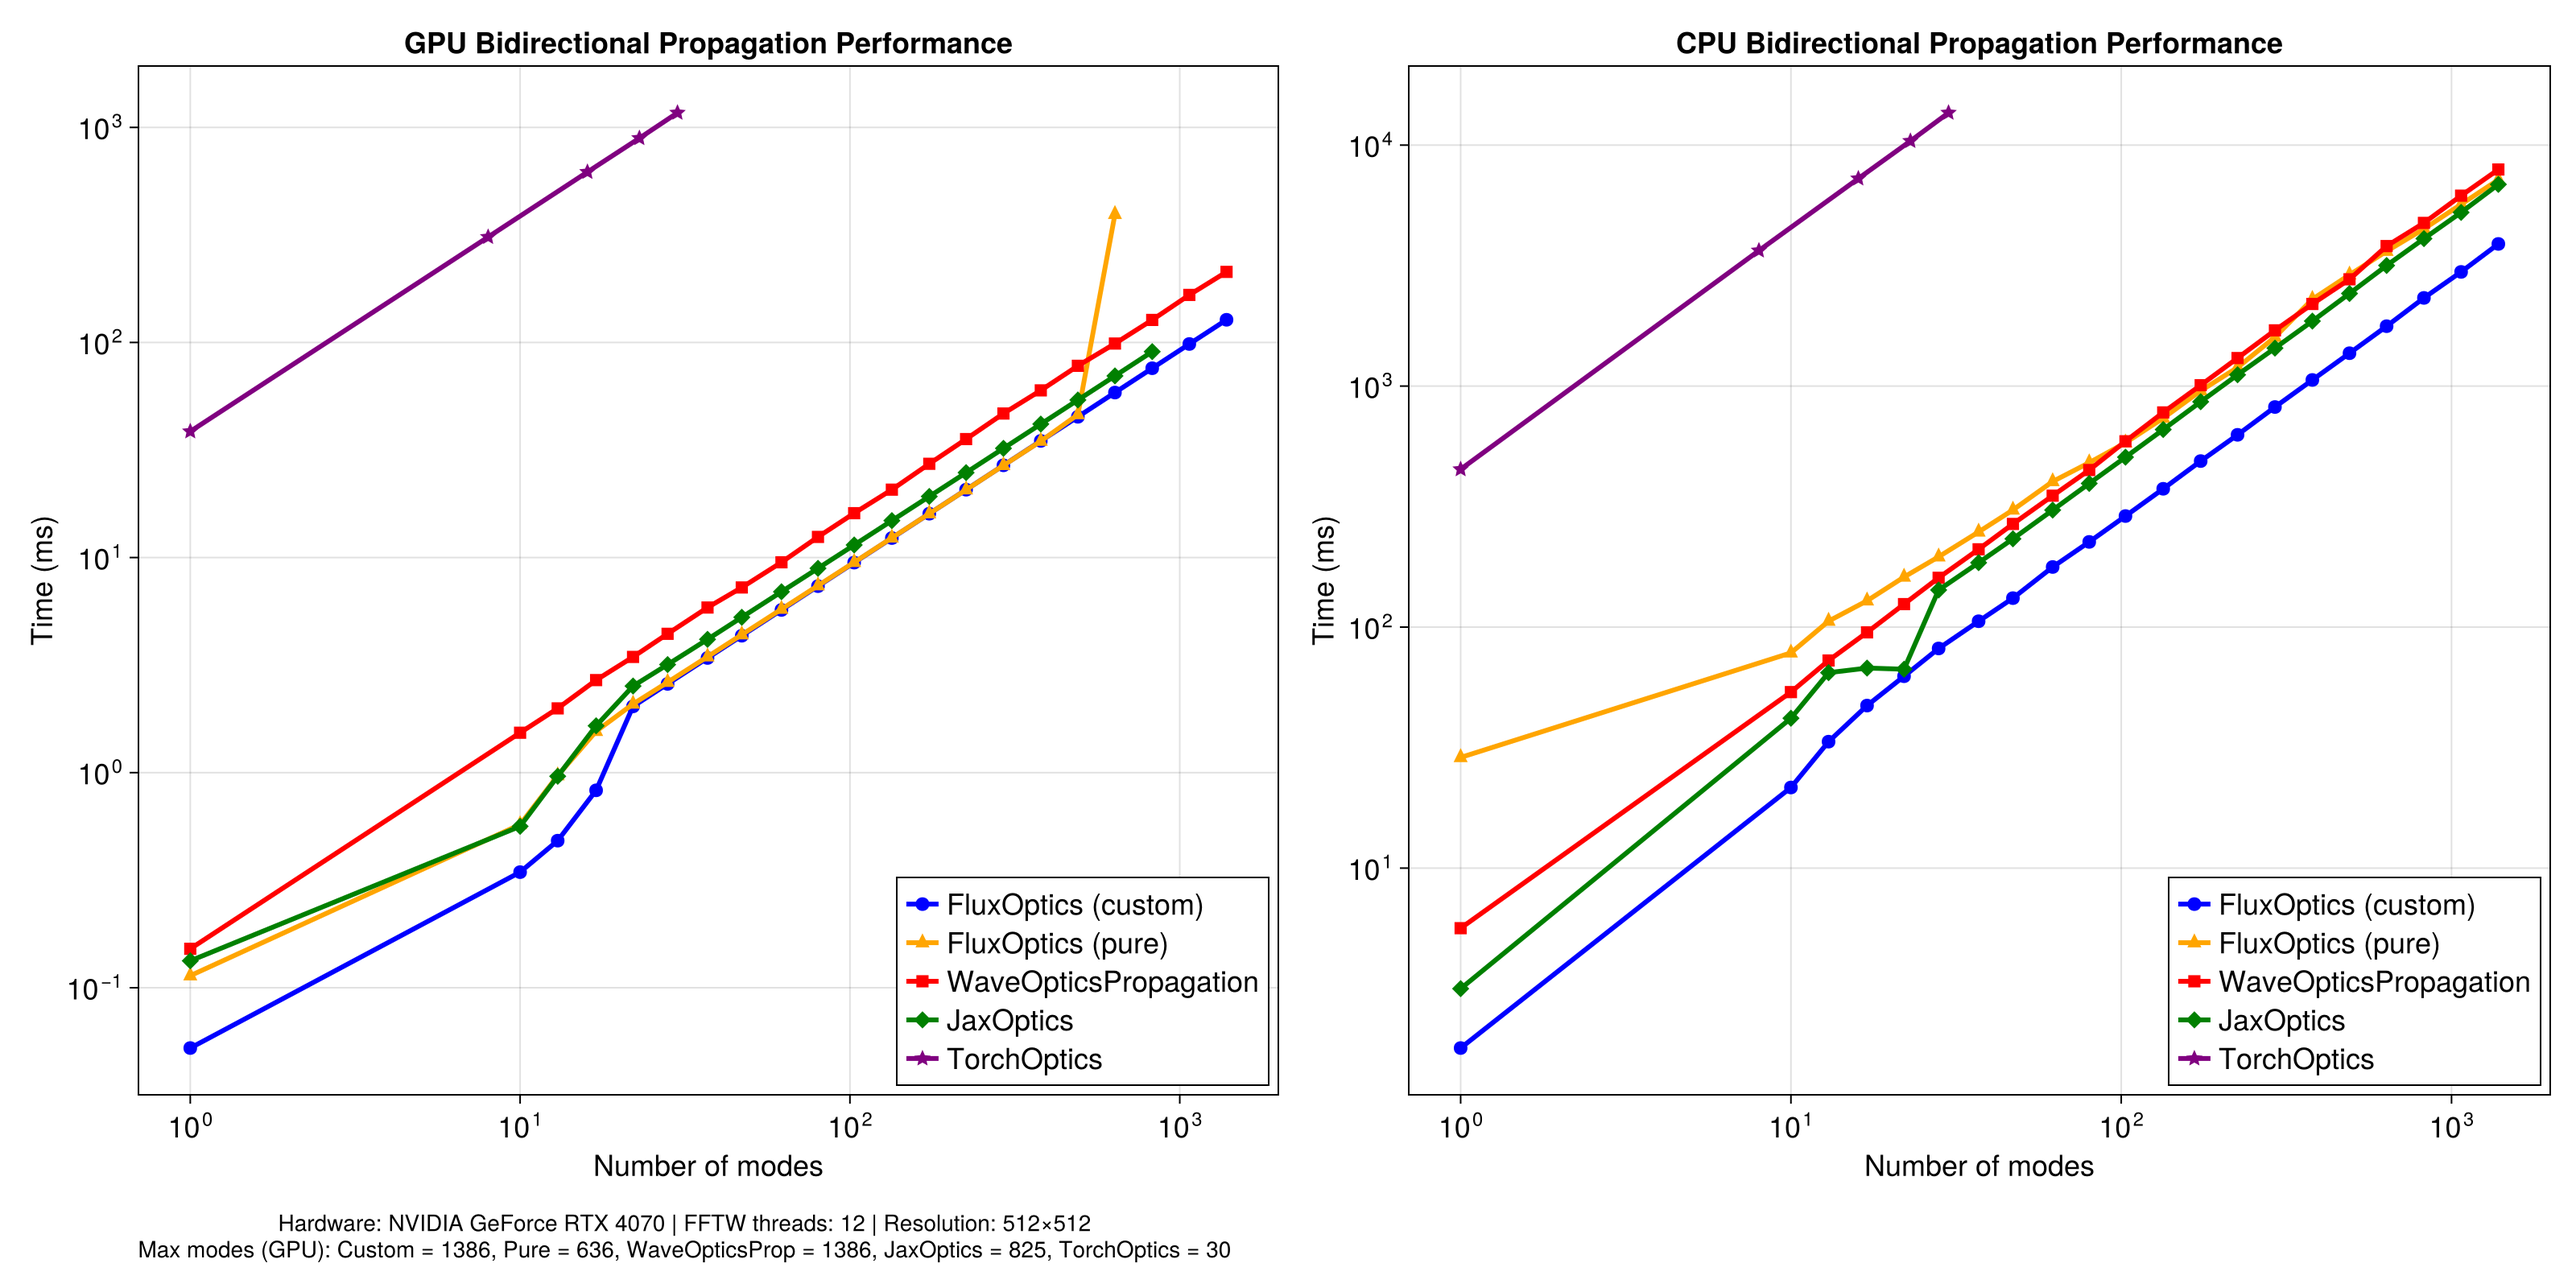
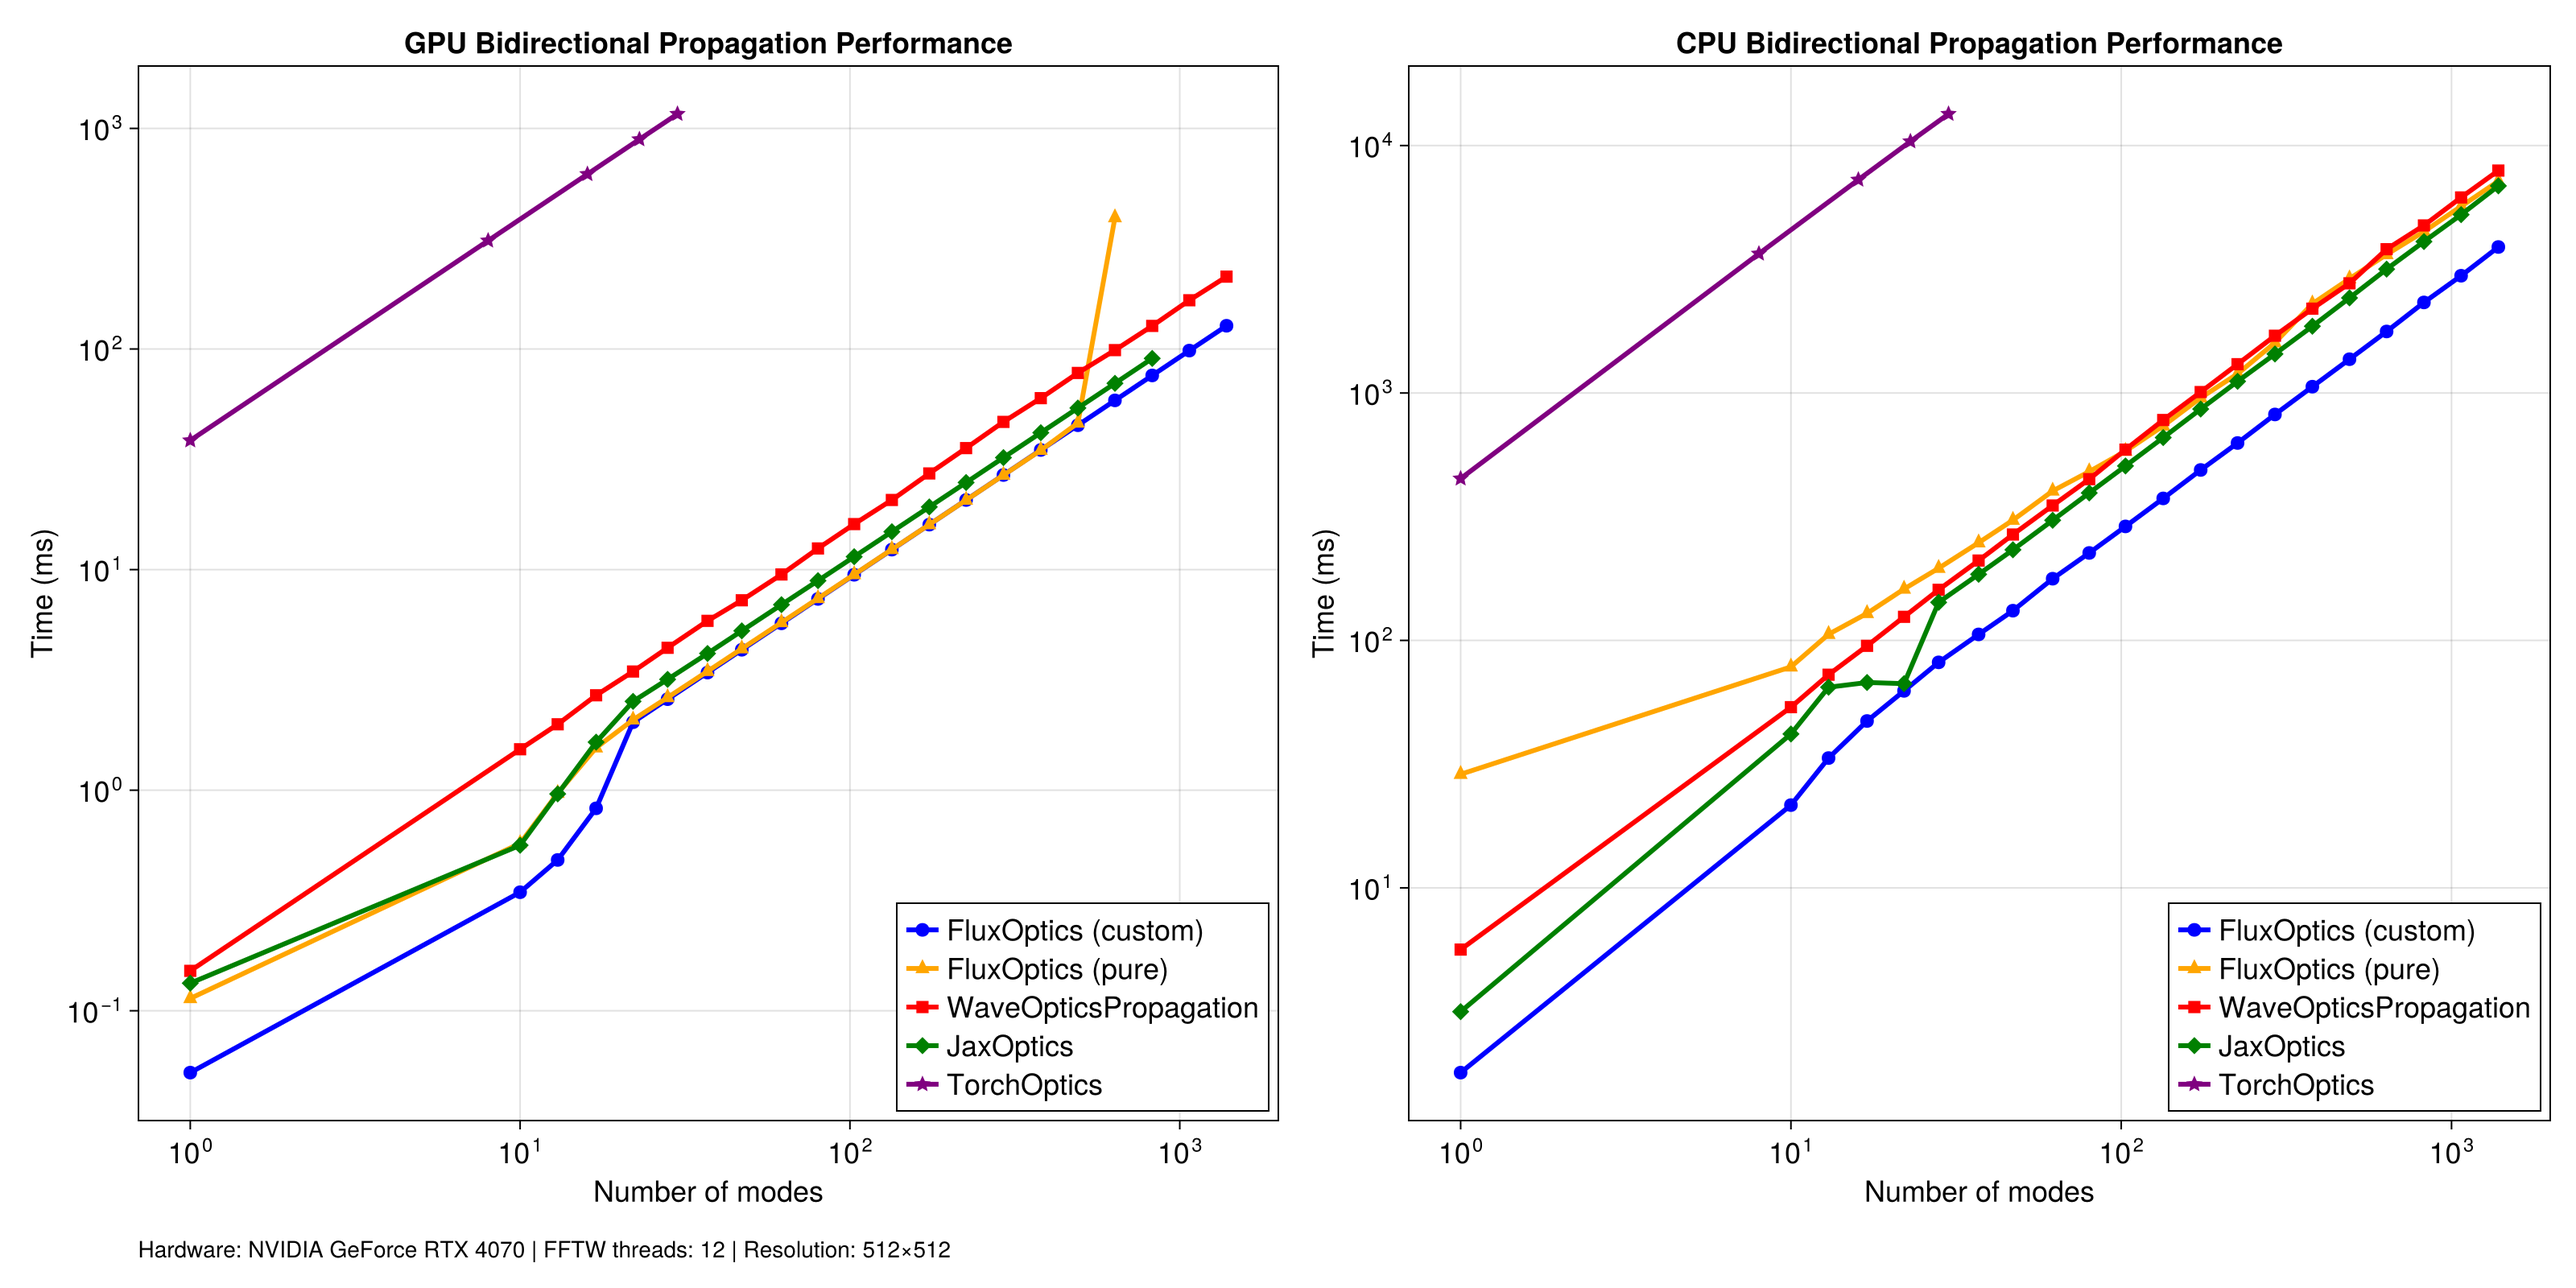
Comment benchmarks

diff --git a/benchmarks/angular_spectrum/scripts/bench_torchoptics.py b/benchmarks/angular_spectrum/scripts/bench_torchoptics.py
@@ -60,17 +60,15 @@ def check_correctness(uin, uout, z):
         return (check_overlap(uf, uout), check_overlap(ub, uin))
     return correct
 
-# device = "cpu"
+# Create Fields for each mode
+uin = [field(input_modes, i, "cpu") for i in range(n_modes_orig)]
+uout = [field(output_modes, i, "cpu") for i in range(n_modes_orig)]
 
-# # Create Fields for each mode
-# uin = [field(input_modes, i, device) for i in range(n_modes_orig)]
-# uout = [field(output_modes, i, device) for i in range(n_modes_orig)]
-
-# # Check correctness
-# fwd_correct, bwd_correct = check_correctness(uin, uout, z)()
-# assert fwd_correct, "Forward propagation correctness check failed"
-# assert bwd_correct, "Backward propagation correctness check failed"
-# print("✅ TorchOptics AS correct!")
+# Check correctness
+fwd_correct, bwd_correct = check_correctness(uin, uout, z)()
+assert fwd_correct, "Forward propagation correctness check failed"
+assert bwd_correct, "Backward propagation correctness check failed"
+print("✅ TorchOptics AS correct!")
 
 
 def benchmark_torch(input_modes, n_modes, dx, dy, wavelength, z, device='cuda'):

diff --git a/benchmarks/README.md b/benchmarks/README.md
@@ -1,0 +1,70 @@
+# FluxOptics Benchmarks
+
+This directory contains performance benchmarks comparing FluxOptics against other optical propagation libraries.
+
+## Angular Spectrum Propagation
+
+### Implementations Compared
+
+**Julia:**
+- **FluxOptics (custom)**: FluxOptics using optimized FFT/BFFT plans with in-place operations
+- **FluxOptics (pure)**: FluxOptics using pure FFT/BFFT function calls
+- **WaveOpticsPropagation.jl**: Alternative Julia library for wave optics
+
+**Python:**
+- **[JaxOptics](https://github.com/anscoil/jaxoptics)**: Minimal JAX implementation developed for this comparison, representing best-practice Python/JAX performance
+- **[TorchOptics](https://github.com/MatthewFilipovich/torchoptics)**: PyTorch-based optical system design library
+
+### Benchmark Setup
+
+All benchmarks measure bidirectional angular spectrum propagation (forward +z and backward -z) performance across different numbers of optical modes, on both GPU and CPU.
+
+**Configuration:**
+- Resolution: 512×512 pixels
+- Wavelength: 1.064 μm
+- Propagation distance: 2 mm
+- Measurements: 20 iterations (5 for TorchOptics due to slow performance)
+
+**Test modes:**
+The benchmark uses Laguerre-Gaussian (LG) modes with beam waist w₀ = 25.0 μm. Mode generation creates 21 radial order groups (p=0 to p=10) with azimuthal orders l satisfying |l| + 2p ≤ 20, yielding 231 unique modes (21×22/2). These 231 modes are duplicated 6× to reach the maximum test case of 1386 modes.
+
+**Validation:**
+All implementations were validated against analytically propagated Laguerre-Gaussian modes. Numerical propagation results show correlation >0.9999 (error <1e-4) with analytical solutions, confirming correctness of all tested libraries before benchmarking.
+
+**Hardware:**
+- GPU: NVIDIA GeForce RTX 4070 Super
+- CPU: AMD Ryzen 5 5600X with FFTW (12 threads)
+
+### Results
+
+#### Performance Comparison
+
+![Performance Comparison](angular_spectrum/results/comparison_performance.png)
+
+Raw execution times show FluxOptics (custom) achieving the best performance on both GPU and CPU across all mode counts tested (up to 1386 modes). The optimized FFT plan implementation maintains consistent performance scaling throughout the entire range.
+
+**Key observations:**
+
+- **FluxOptics (pure)** performs nearly identically to custom on GPU for low to moderate mode counts, but experiences significant performance degradation beyond ~500 modes and runs out of memory around 700 modes
+
+- **WaveOpticsPropagation.jl** shows competitive performance but remains consistently 1.7× slower on GPU and 2.0× slower on CPU compared to FluxOptics (custom)
+
+- **JaxOptics** demonstrates the best Python performance, running 1.2× slower than FluxOptics (custom) on GPU and performing on par with FluxOptics (pure) on CPU. However, it runs out of memory around 850 modes on GPU
+
+- **TorchOptics** exhibits significantly degraded performance and memory efficiency, being **420× slower** on GPU and **154× slower** on CPU. Testing beyond 30 modes was not pursued due to excessive runtime.
+
+#### Speedup Analysis
+
+![Speedup Comparison](angular_spectrum/results/comparison_speedup.png)
+
+Relative performance versus FluxOptics (custom) baseline on logarithmic scale. The baseline (1.0×) represents FluxOptics (custom) performance, with values below 1.0 indicating slower execution.
+
+**Performance summary:**
+- FluxOptics (pure): 0.8-1.0× on GPU (identical beween 50 and 500 modes, degrades at high modes)
+- WaveOpticsPropagation: ~0.6× on GPU, ~0.5× on CPU
+- JaxOptics: ~0.8× on GPU, ~0.6× on CPU
+- TorchOptics: ~0.002× on GPU, ~0.006× on CPU
+
+### Reproducibility
+
+Benchmark scripts and plotting code are available in the `angular_spectrum/scripts` subdirectory. Each implementation's benchmark script can be run independently to regenerate results.
